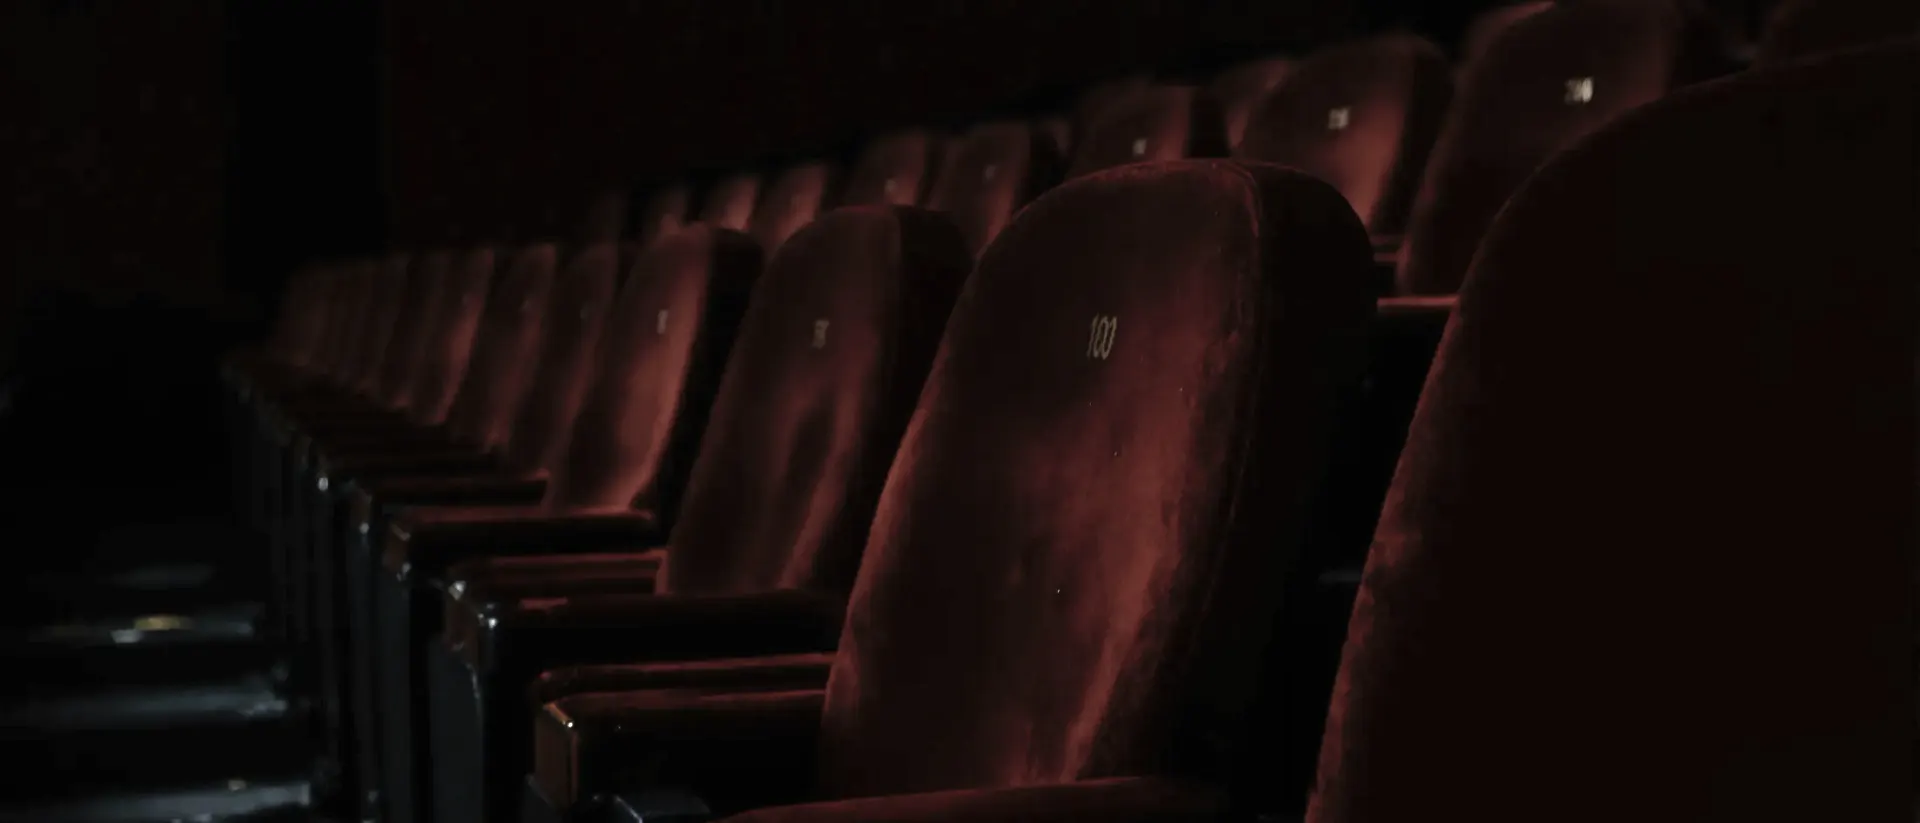
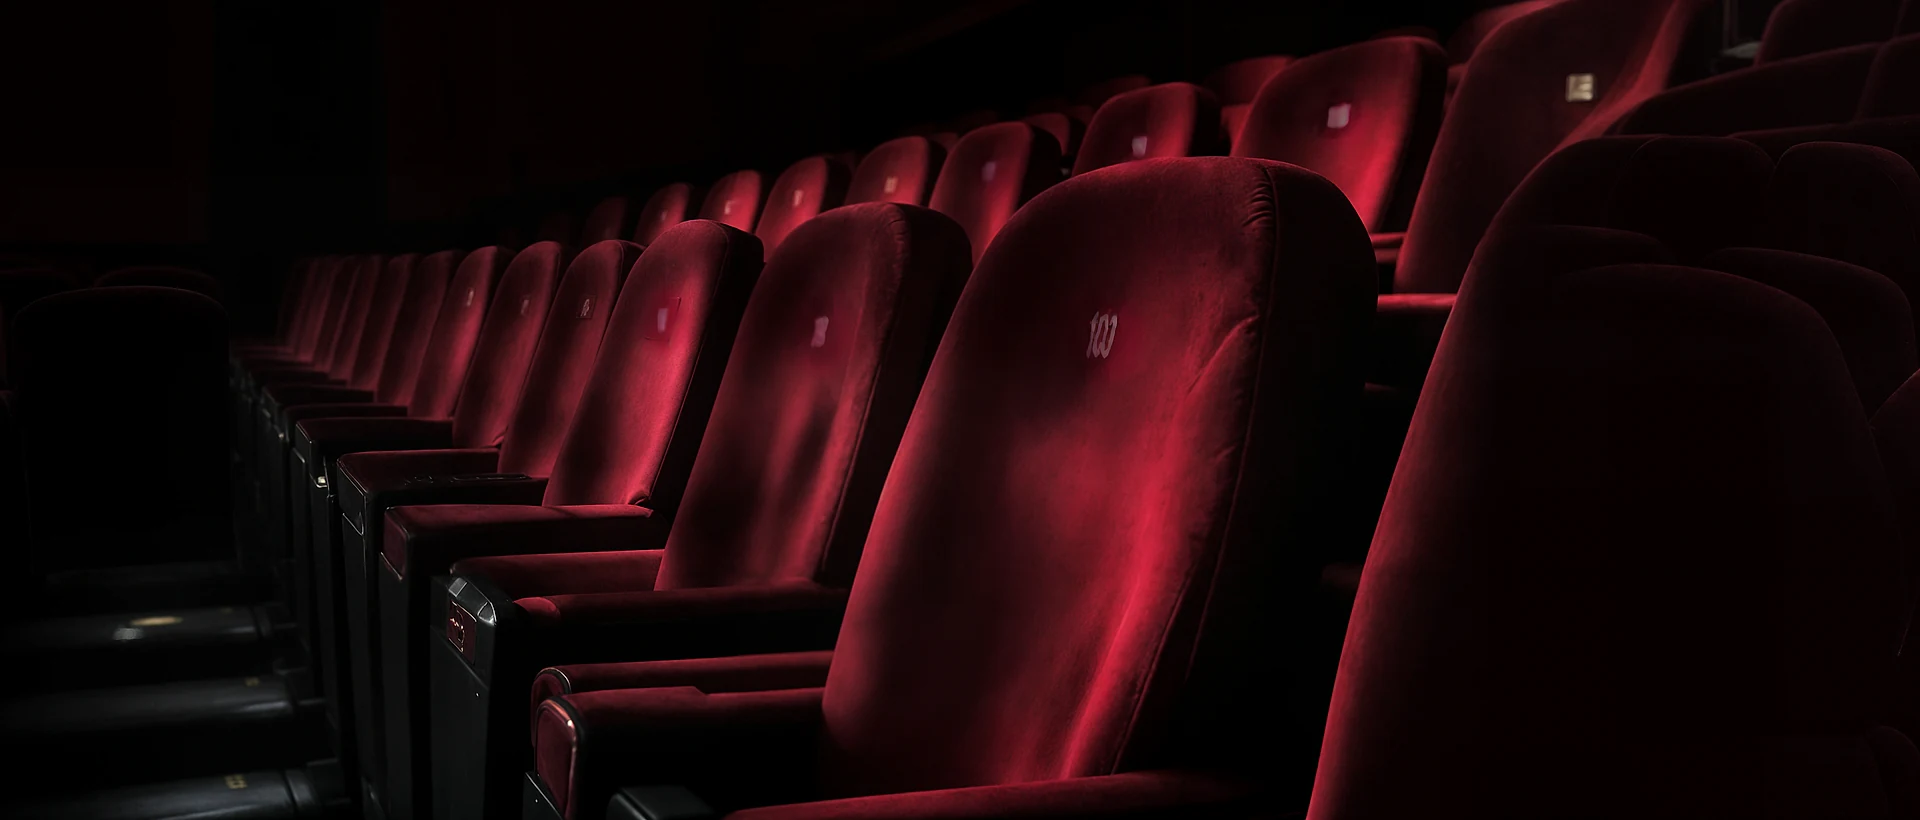
Films & series: fluwelen stoelen scherper en dieprood
Foto opnieuw opgebouwd met fal Clarity (3840px) en naar diep karmijn gekleurd; de
stoelnummers blijven leesbaar. Nieuwe versie van 2880px voor grote retinaschermen.

diff --git a/src/components/films/cinema_hero.tsx b/src/components/films/cinema_hero.tsx
@@ -27,7 +27,7 @@ export function CinemaHero({ children, compact = false }: { children: React.Reac
       {/* eslint-disable-next-line @next/next/no-img-element */}
       <img
         src="/images/films/cinema_velvet_1920.webp"
-        srcSet="/images/films/cinema_velvet_960.webp 960w, /images/films/cinema_velvet_1920.webp 1920w"
+        srcSet="/images/films/cinema_velvet_960.webp 960w, /images/films/cinema_velvet_1920.webp 1920w, /images/films/cinema_velvet_2880.webp 2880w"
         sizes="(min-width: 1024px) 97vw, 180vw"
         alt=""
         aria-hidden
